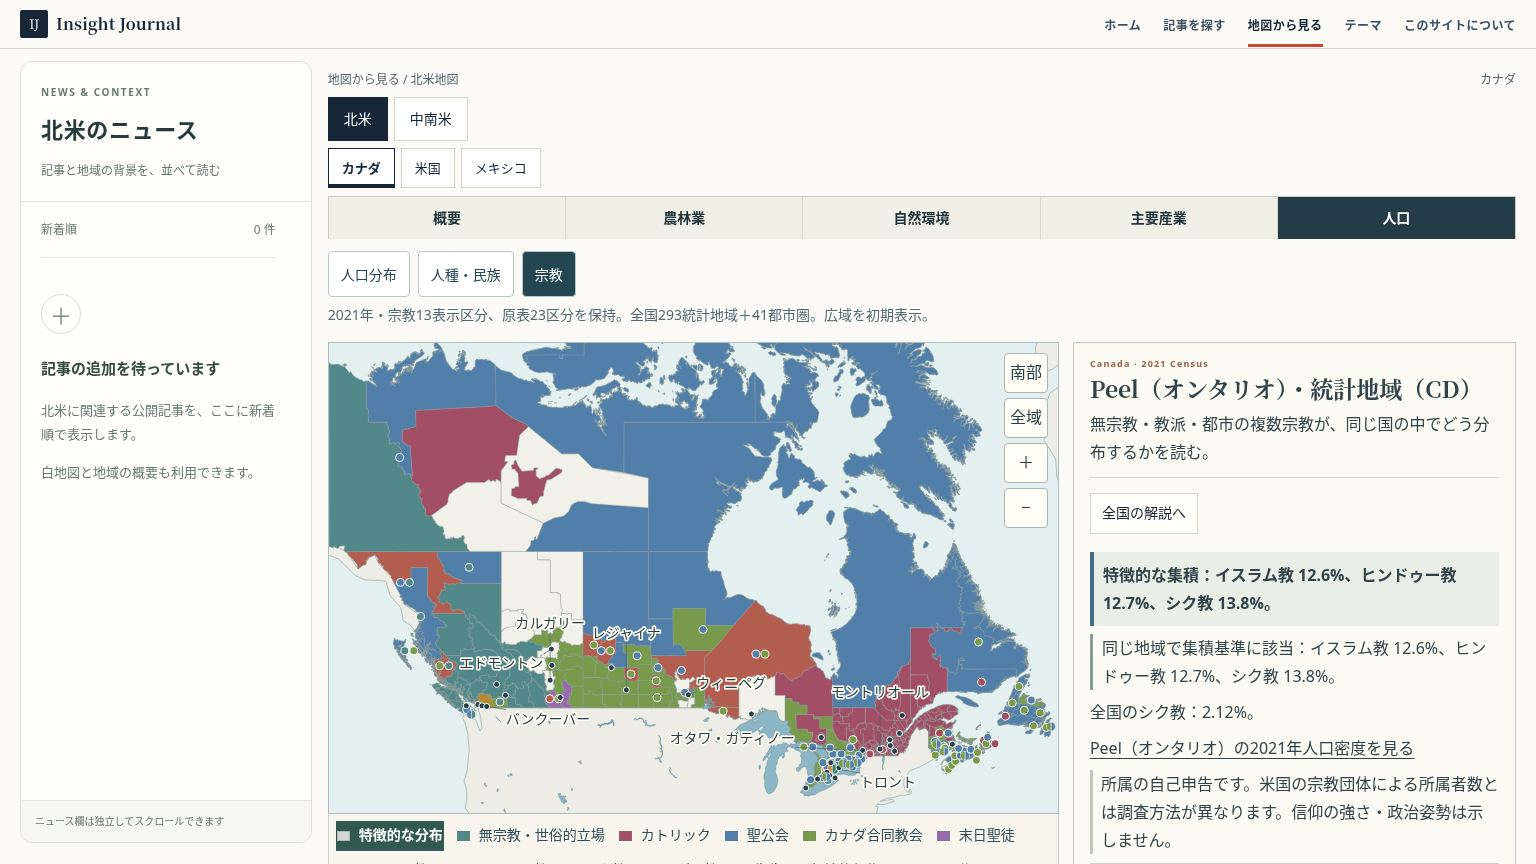
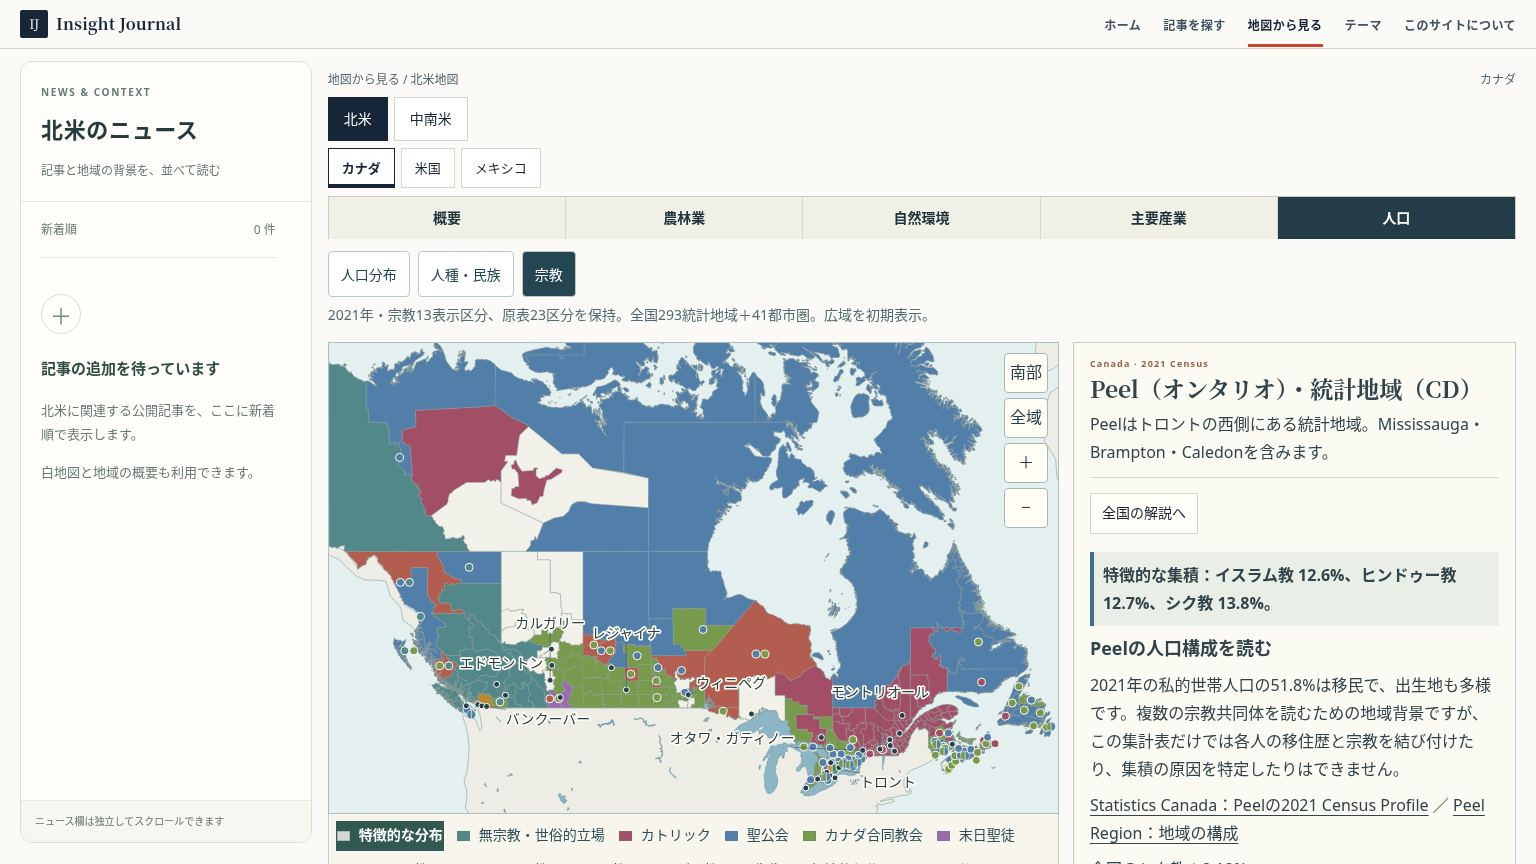
Peelの宗教説明の重複を整理し出典付き背景を追加

Changed region(s): [[0.6875, 0.7188, 0.9688, 1.0], [0.6875, 0.4688, 0.9688, 0.5312]]

diff --git a/src/scripts/atlas-canada-population-overview.ts b/src/scripts/atlas-canada-population-overview.ts
@@ -61,9 +61,9 @@ export function renderCanadaPopulationOverview(root:HTMLElement,config:any,state
  const examples=topic==='ethnicity'?[['cma','933',['5','4']],['cma','535',['4','5']],['cma','462',['6','8']],['cd','6205',['87']]]:[['cd','6001',['25']],['cd','2492',['8']],['cd','6204',['6']],['cd','1005',['6']],['cd','3521',['21','19','22']]];
  const list=$('[data-demographic-examples]');list.replaceChildren();
  for(const [level,id,groups]of examples){const record=(level==='cd'?data.regions:data.cmas).find((r:any)=>r.id===id),paragraph=document.createElement('p'),button=document.createElement('button'),values=document.createElement('span');button.type='button';button.dataset.demographicExample=String(id);button.textContent=nameOf(record)+(level==='cd'?'・CD':'・都市圏');button.addEventListener('click',()=>choosePlace(String(id),level as 'cma'|'cd'));for(const [index,groupId]of (groups as string[]).entries()){const group=data.groups.find((g:any)=>g.id===groupId),share=canadaDemographicShare(record.values[groupId]?.value??null,record.denominator.value),swatch=document.createElement('i');swatch.style.background=colors[groupId];swatch.setAttribute('aria-hidden','true');if(index)values.append(' ／ ');values.append(swatch,group.name+' '+(share===null?'未公表':share.toFixed(1)+'%'));}paragraph.append(button,values);list.append(paragraph);}
- const simultaneous=$('[data-demographic-simultaneous]');simultaneous.hidden=!hasSelection||!c.qualified.length;simultaneous.textContent='同じ地域で集積基準に該当：'+c.qualified.map((row:any)=>row.name+' '+row.share.toFixed(1)+'%').join('、')+'。';
+ const peel=topic==='religion'&&selectedRegion?.id==='3521',simultaneous=$('[data-demographic-simultaneous]');simultaneous.hidden=!hasSelection||!c.qualified.length||peel;simultaneous.textContent='同じ地域で集積基準に該当：'+c.qualified.map((row:any)=>row.name+' '+row.share.toFixed(1)+'%').join('、')+'。';$('[data-religion-peel-context]').hidden=!peel;
  const composition=$('[data-population-composition]') as HTMLDetailsElement,recordKey=topic+':'+(selectedRegion?.id??cma?.id??'national');if(composition.dataset.record!==recordKey){composition.open=hasSelection;composition.dataset.record=recordKey;}
- $('[data-demographic-heading]').textContent=hasSelection?selectedName+'・'+scope:topic==='ethnicity'?'全国の人口集団の分布':'全国の宗教・無宗教の地域差';$('[data-demographic-lead]').textContent=topic==='ethnicity'?'都市とその周辺を比べ、人口集団が特徴的に集まる場所を読む。':'無宗教・教派・都市の複数宗教が、同じ国の中でどう分布するかを読む。';
+ $('[data-demographic-heading]').textContent=hasSelection?selectedName+'・'+scope:topic==='ethnicity'?'全国の人口集団の分布':'全国の宗教・無宗教の地域差';$('[data-demographic-lead]').textContent=peel?'Peelはトロントの西側にある統計地域。Mississauga・Brampton・Caledonを含みます。':topic==='ethnicity'?'都市とその周辺を比べ、人口集団が特徴的に集まる場所を読む。':'無宗教・教派・都市の複数宗教が、同じ国の中でどう分布するかを読む。';
  $('[data-demographic-comparison]').textContent=!hasSelection&&!filtered?topic==='religion'?'面色はCD内で全国比が最も高い特徴的な区分。小点は同じCDで基準に該当する別の区分です。都市圏は重なる別集計で、地域を選ぶと各割合を読めます。':'単色は1区分、等幅の縞は同じ統計地域で特徴的に集まる複数区分を示します。都市の色点も複数区分を同時表示します。地域・都市を選ぶと実際の構成比を確認できます。':c.missing&&!c.qualified.length?'一部の構成比は未公表です。公表された区分のみ確認してください。':filtered?g.name+'：'+selectedCell.share.toFixed(1)+'% ／ 全国 '+selectedCell.national.toFixed(1)+'% ／ 全国比 '+selectedCell.ratio?.toFixed(2)+'倍':c.qualified.length?'特徴的な集積：'+c.qualified.map((row:any)=>row.name+' '+row.share.toFixed(1)+'%').join('、')+'。':'集積基準に達する区分はありません。住民がいないという意味ではありません。';
  if(root.dataset.populationReadingFocus==='group'&&filtered){const top=data.regions.map((r:any)=>({name:nameOf(r),share:canadaDemographicShare(r.values[g.id]?.value??null,r.denominator.value)})).filter((r:any)=>r.share!==null).sort((a:any,b:any)=>b.share-a.share).slice(0,3);$('[data-demographic-heading]').textContent=g.name+'の分布';$('[data-demographic-comparison]').textContent='全国293統計地域で割合が高い地域：'+top.map((r:any)=>r.name+' '+r.share.toFixed(1)+'%').join('、')+'。';}
  const nationalRow=filtered?selectedCell:c.primary;$('[data-demographic-national]').hidden=!hasSelection&&!filtered;$('[data-demographic-national]').textContent=nationalRow?'全国の'+nationalRow.name+'：'+nationalRow.national.toFixed(2)+'%。':'';
